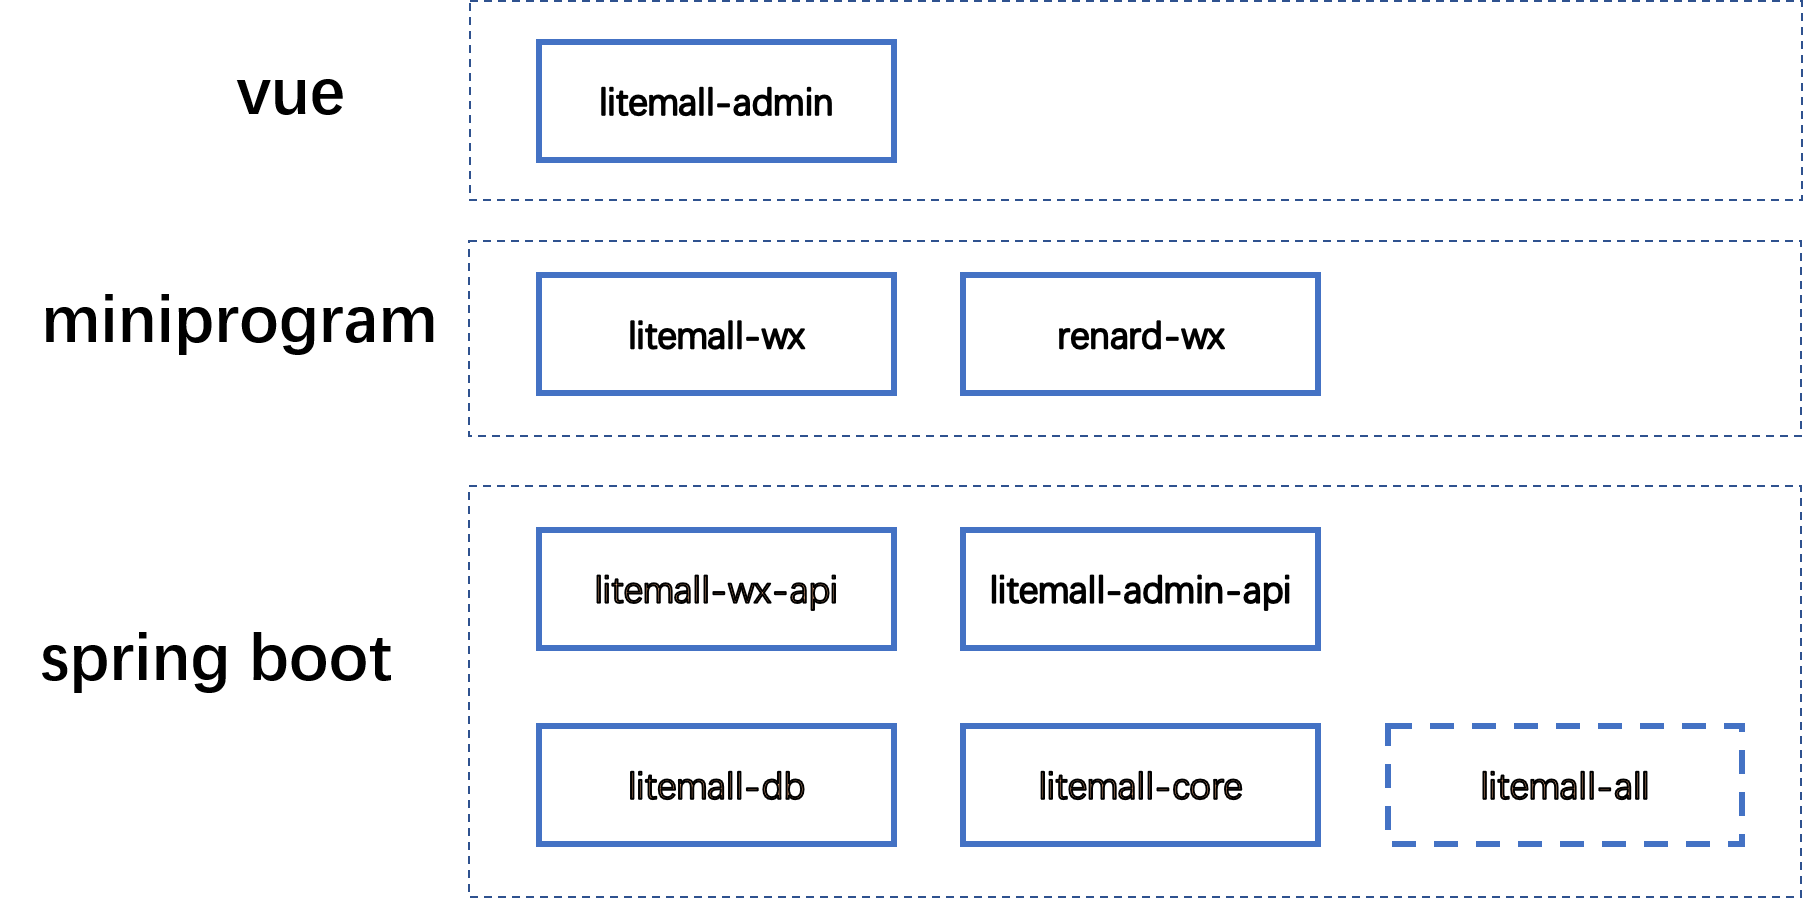
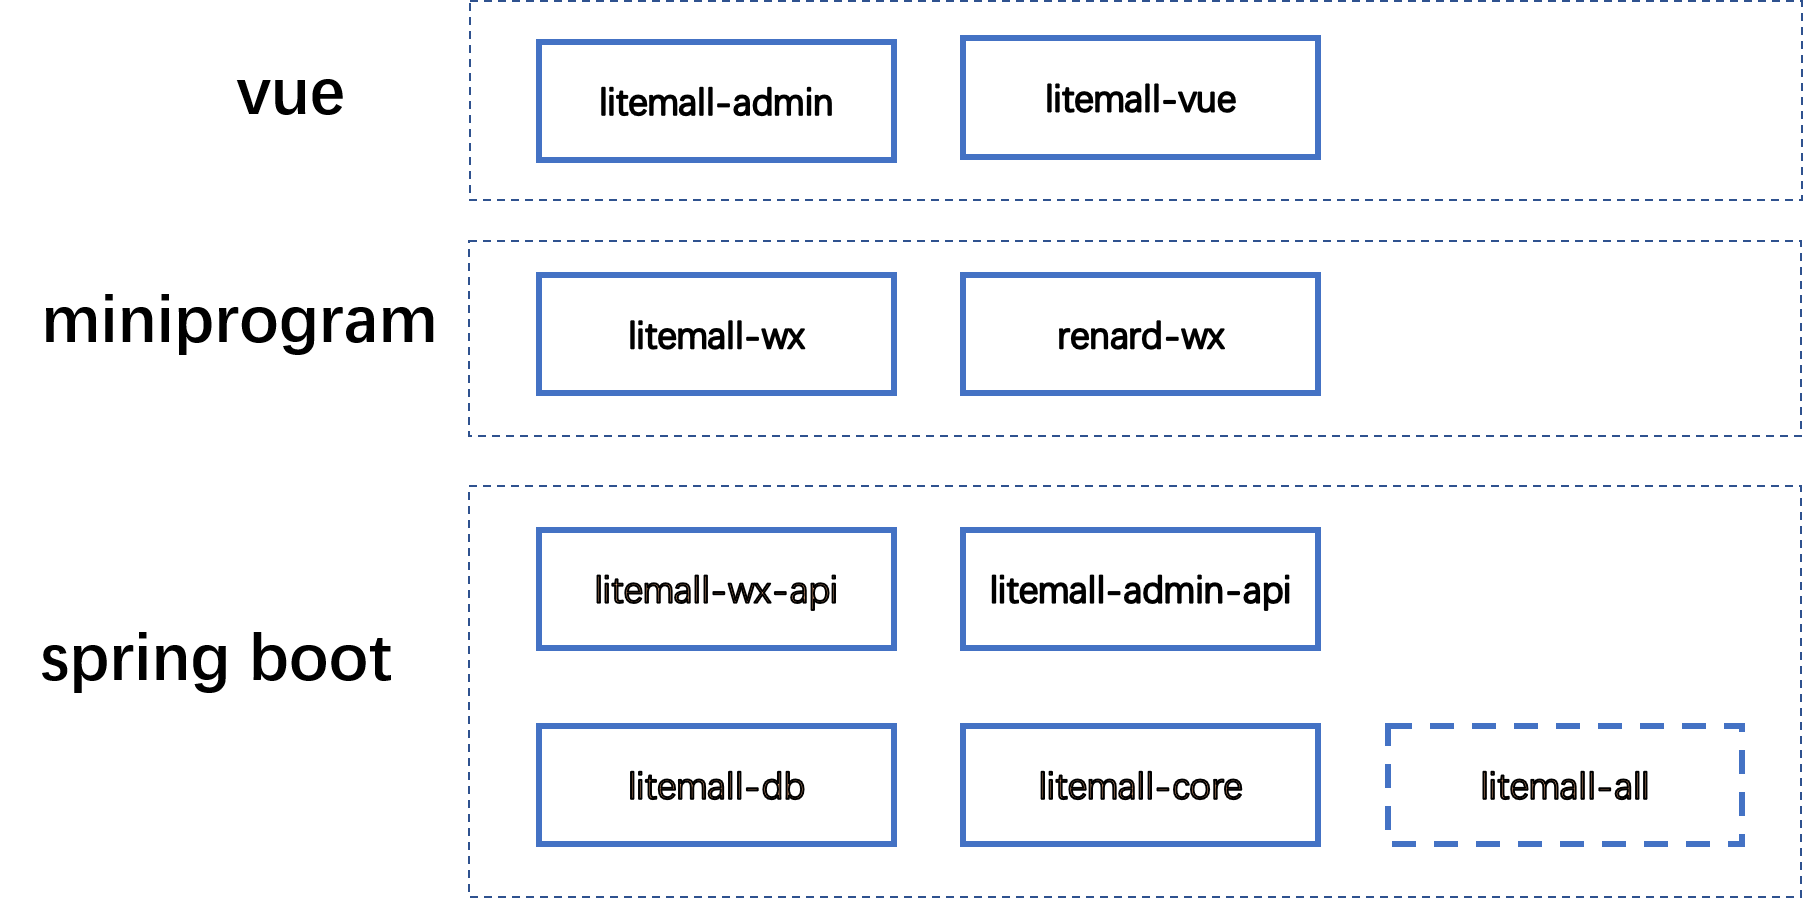
doc

Changed region(s): [[0.528, 0.0312, 0.7454, 0.1871]]

diff --git a/doc/project.md b/doc/project.md
@@ -21,10 +21,6 @@ litemall是一个简单的商场系统，基于现有的开源项目，重新实
 
   由litemall-wx-api模块和litemall-vue模块组成。
   注意，目前这里移动商城子系统的后端和小商场子系统是一样的。
-
-* 简商城子系统(webmall)
-
-  这里仅列出，目前没有开发计划。
     
 * 管理后台子系统(admin)
 
@@ -44,6 +40,27 @@ litemall是一个简单的商场系统，基于现有的开源项目，重新实
 * Vue技术栈
 
   采用VSC开发工具，开发litemall-admin模块和litemall-vue模块。
+
+### 1.1.1 项目特点
+
+项目存在以下特点：
+
+* 数据库方面，只是简单的表，表和表之间的依赖关系没有采用外键设计，而是依赖Java代码在service层面或者业务层面保证。这样做的好处是数据库频繁改动很方便，不会因为外键而导致数据库难以修改;
+* 涉及三种技术栈，但是每种技术栈仅涉及最基础的技术；
+  * 后端技术栈，仅涉及 Spring，Spring Boot, Spring MVC和Mybatis技术，其他后端技术暂时不采用;
+  * 小程序技术栈，仅涉及miniprogram官方文档；
+  * 前端技术栈，仅涉及vue, vuex, vue-route和element技术；
+* 安全方面，仅采用最基本的代码，提供简单基本的安全服务;
+* 性能方面，没有涉及内存数据库缓存功能，而是完全依赖MySQL;
+* 对象存储服务方面，支持本地存储和第三方云存储方案。
+* 消息通知方面，支持邮件通知、第三方云短信通知和微信模板通知；
+* 部署方便，支持多服务部署和一键部署脚本；
+* 文档全面，虽然还在开发中，但是规划中文档和代码注释一定会完成，帮助开发者理解项目。
+
+总之，目前的系统只是为了学习技术和业务而开发的一个简单商场原型系统。虽然缺失很多企业级功能，但是是完整和合理的原型系统。
+
+注意：
+> 以上特点并不一定是优点。
 
 ## 1.2 系统功能
 
@@ -139,26 +156,79 @@ litemall是一个简单的商场系统，基于现有的开源项目，重新实
   * 订单统计
   * 商品统计
 
-## 1.3 项目特点
+## 1.3 项目技术
 
-存在以下特点：
+### 1.3.1 技术参考
 
-* 数据库方面，只是简单的表，表和表之间的依赖关系没有采用外键设计，而是依赖Java代码在service层面或者业务层面保证。这样做的好处是数据库频繁改动很方便，不会因为外键而导致数据库难以修改;
-* 涉及三种技术栈，但是每种技术栈仅涉及最基础的技术；
-  * 后端技术栈，仅涉及 Spring，Spring Boot, Spring MVC和Mybatis技术，其他后端技术暂时不采用;
-  * 小程序技术栈，仅涉及miniprogram官方文档；
-  * 前端技术栈，仅涉及vue, vuex, vue-route和element技术；
-* 安全方面，仅采用最基本的代码，提供简单基本的安全服务;
-* 性能方面，没有涉及内存数据库缓存功能，而是完全依赖MySQL;
-* 对象存储服务方面，支持本地存储和第三方云存储方案。
-* 消息通知方面，支持邮件通知、第三方云短信通知和微信模板通知；
-* 部署方便，支持多服务部署和一键部署脚本；
-* 文档全面，虽然还在开发中，但是规划中文档和代码注释一定会完成，帮助开发者理解项目。
+#### 1.3.1.1 Spring Boot技术
 
-总之，目前的系统只是为了学习技术和业务而开发的一个简单商场原型系统。虽然缺失很多企业级功能，但是是完整和合理的原型系统。
+Spring Boot技术栈参考以下文档或者项目：
 
-注意：
-> 以上特点并不一定是优点。
+1. MySQL
+
+   了解创建数据库和表、添加、查询、更新和删除即可。
+    
+2. Spring Boot 2.x
+
+    * https://docs.spring.io/spring-boot/docs/2.1.5.RELEASE/reference/htmlsingle/#getting-started-introducing-spring-boot
+    * https://docs.spring.io/spring-boot/docs/2.1.5.RELEASE/reference/htmlsingle/#using-boot-maven
+
+    这里需要了解RestController, Service等注解，以及如何使用自动化配置。 
+    Spring Boot支持很多功能，开发者使用时查阅。
+    
+3. Mybatis
+
+    * http://www.mybatis.org/mybatis-3/
+    * http://www.mybatis.org/mybatis-3/java-api.html
+    * http://www.mybatis.org/mybatis-3/sqlmap-xml.html
+ 
+    这里可以简单了解，而使用Mybatis Generator来生成Java代码使用即可。
+    
+4. Mybatis Generator
+
+    * http://www.mybatis.org/generator/running/runningWithMaven.html
+    * http://www.mybatis.org/generator/generatedobjects/results.html
+    * http://www.mybatis.org/generator/generatedobjects/exampleClassUsage.html
+    
+5. Mybatis PageHelper
+
+    * https://github.com/pagehelper/Mybatis-PageHelper/blob/master/wikis/en/HowToUse.md
+    
+#### 1.3.1.2 小程序技术
+
+1. 小程序
+
+    * https://developers.weixin.qq.com/miniprogram/dev/index.html
+    * https://developers.weixin.qq.com/miniprogram/dev/component/
+    * https://developers.weixin.qq.com/miniprogram/dev/api/
+    * https://developers.weixin.qq.com/community/develop
+    
+    建议小程序方面遇到问题，可以到官方社区查找。
+
+2. 微信支付
+
+    * https://pay.weixin.qq.com/wiki/doc/api/wxa/wxa_api.php?chapter=7_3&index=1
+    
+#### 1.3.1.3 Vue技术
+
+1. Vue
+
+    * https://cn.vuejs.org/index.html
+
+2. Vant
+
+    * https://youzan.github.io/vant/#/zh-CN/intro
+
+3. Element
+
+    * https://element.eleme.cn/#/zh-CN/component/installation
+
+4. vue-element-admin
+
+    * https://github.com/PanJiaChen/vue-element-admin
+    * https://panjiachen.github.io/vue-element-admin-site/zh/
+    
+### 1.3.2 项目阶段
 
 接下来，从项目的开发、部署（测试）和上线三个阶段介绍litemall。
 
